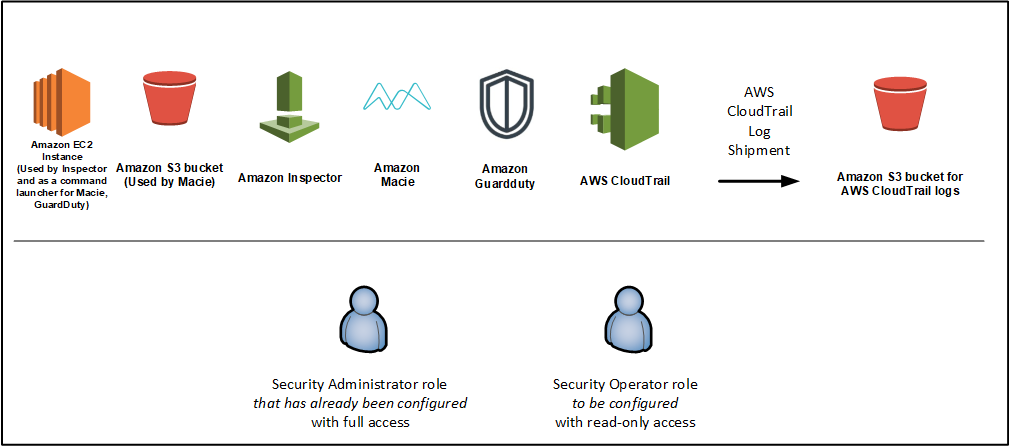
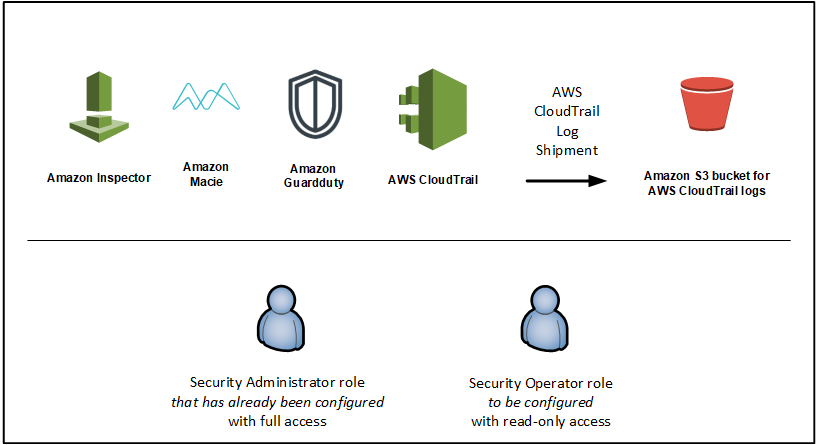
image updates

diff --git a/docs/delegation/index.md b/docs/delegation/index.md
@@ -45,8 +45,7 @@ These may be provided by an event sponsor.
 
 ## Architecture Overview
 
-The environment in this round consists of an AWS account in which Amazon GuardDuty, Amazon Inspector, Amazon Macie and Amazon CloudTrail will run.  The CloudTrail logs will be sent to an Amazon S3 bucket.  An Amazon EC2 instance will be launched which will in turn start the [Amazon Macie Activity Generator](https://github.com/aws-samples/amazon-macie-activity-generator) and also launch an Amazon Inspector assessment.
-
+The environment in this round consists of an AWS account in which Amazon GuardDuty, Amazon Inspector, Amazon Macie and Amazon CloudTrail will run.  The CloudTrail logs will be sent to an Amazon S3 bucket. 
 The template also creates two AWS IAM roles.  The first role is for a Security Administrator which has full access to the External Security Services.  The second role is for Security Operators.  The Security Operator role *initially* is very similar to the Security Administrator role but you will modify the permissions of the Security Operator role to provide "read only" access to the External Security Services.  The use of Security Administrator/Operator roles is very common in organizations that want to delegate the use of security services to different security teams.
 
 Here is a picture of what you will build.
